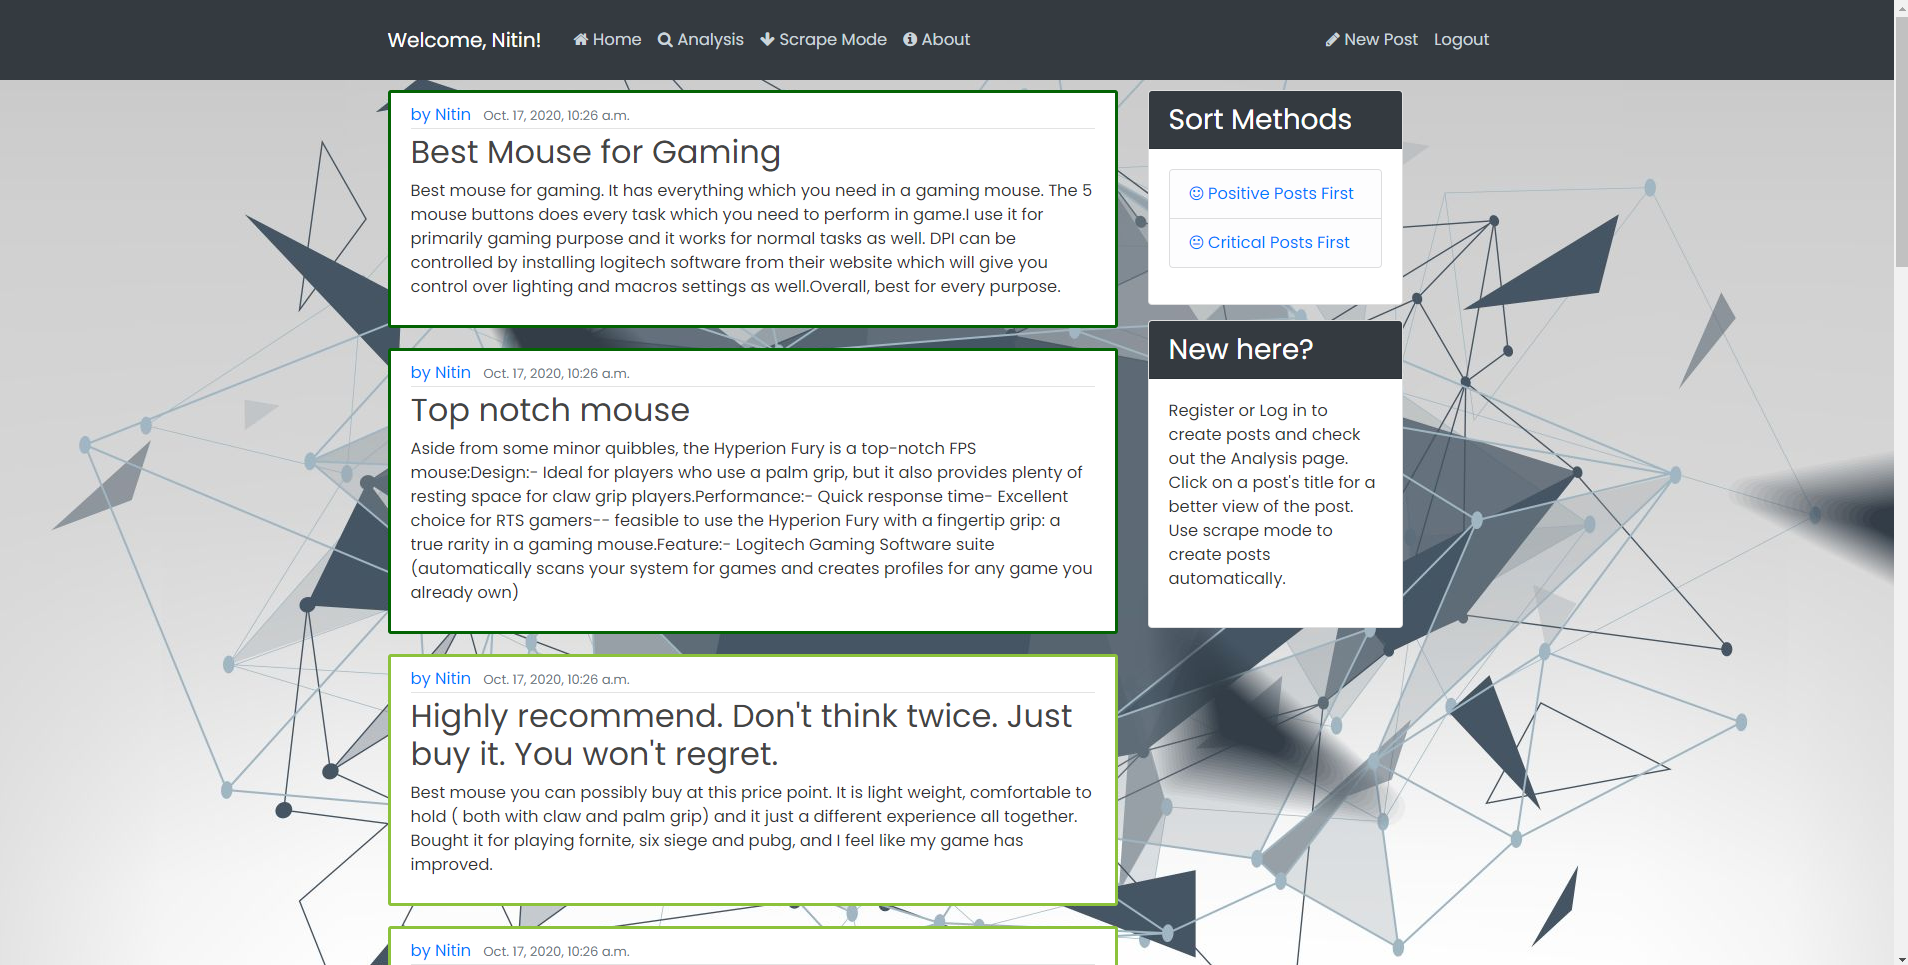
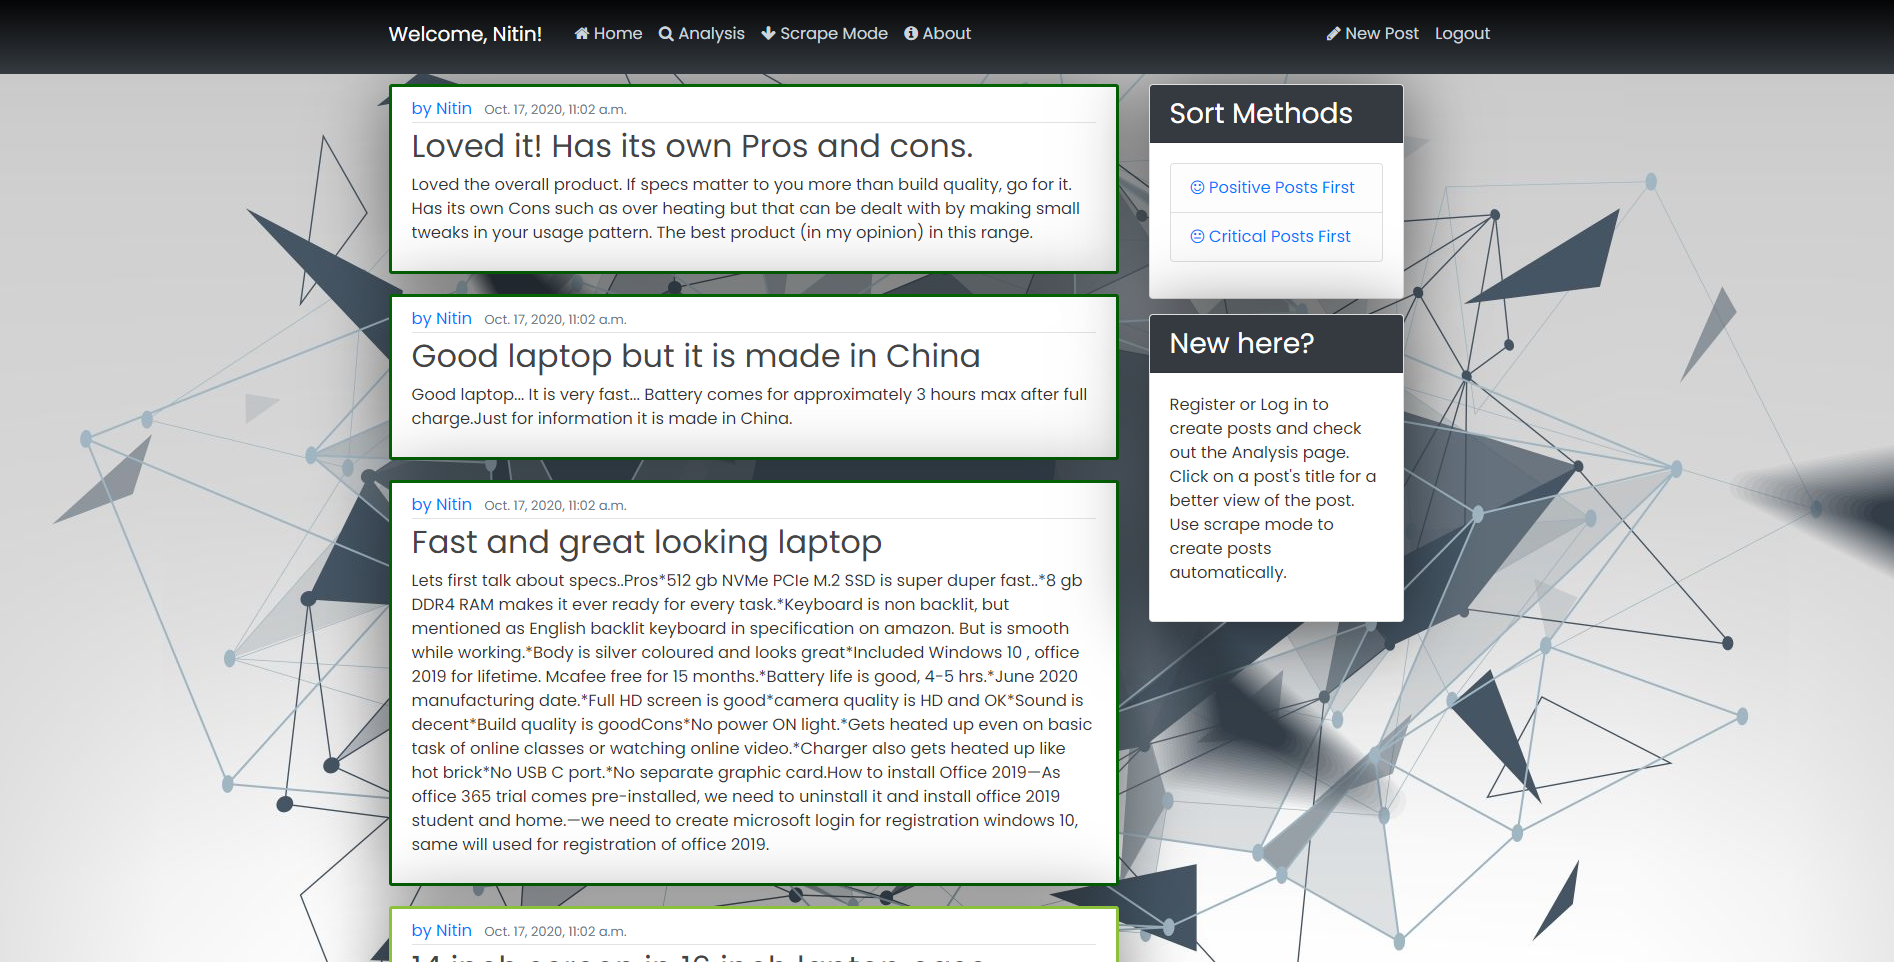
leftover css

diff --git a/blog/templates/blog/home.html b/blog/templates/blog/home.html
@@ -94,7 +94,7 @@
         
 
         <div class="col-sm-3">
-            <div class="card">
+            <div class="card side-bar">
               <h3 class="card-header text-white" style="background-color: #343a40;">Sort Methods</h3>
                 <div class="card-body">
                     <ul class="list-group">
@@ -105,7 +105,7 @@
               </p>
             </div>
             <div style="padding: 15px 0px 0px 0px;">
-                <div class="card">
+                <div class="card side-bar">
                     <h3 class="card-header text-white" style="background-color: #343a40;">New here?</h3>
                     <div class="card-body">
                         <p>

diff --git a/blog/static/blog/main.css b/blog/static/blog/main.css
@@ -135,3 +135,25 @@
       left: 0;
       min-height: 300px;
   }
+
+  .media {
+    box-shadow: 0 4px 70px rgba(0,0,0,0.5);
+  }
+
+  .nav-item {
+    cursor: pointer;
+    transition: 200ms color ease-in;
+  }
+
+  .nav-item:hover {
+    transition: 100ms transform ease-in;
+    transform: scale(1.08);
+  }
+
+  .navbar {
+    background: linear-gradient( rgba(0,0,0,1),  #343a40);
+  }
+
+  .card{
+    box-shadow: 0 4px 70px rgba(0,0,0,0.6);
+  }

diff --git a/blog/templates/blog/post_form.html b/blog/templates/blog/post_form.html
@@ -3,7 +3,7 @@
 {% load crispy_forms_tags %}
 
 {% block content %}
-    <div class="content-section">
+    <div class="content-section" style="margin: 15px">
         <form method="POST">
             {% csrf_token %}
             <fieldset class="form-group">
